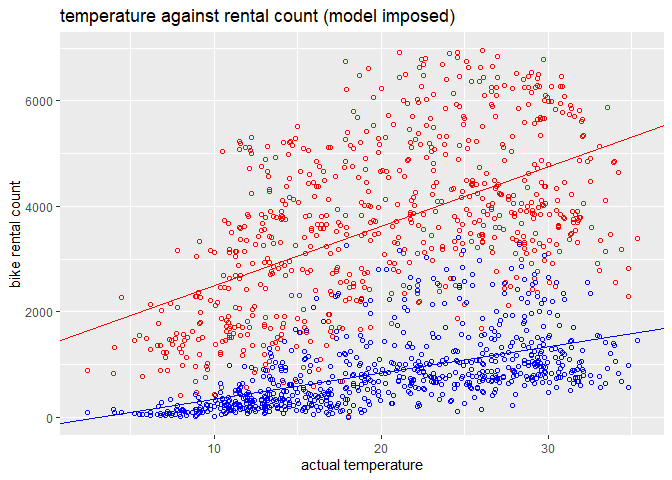
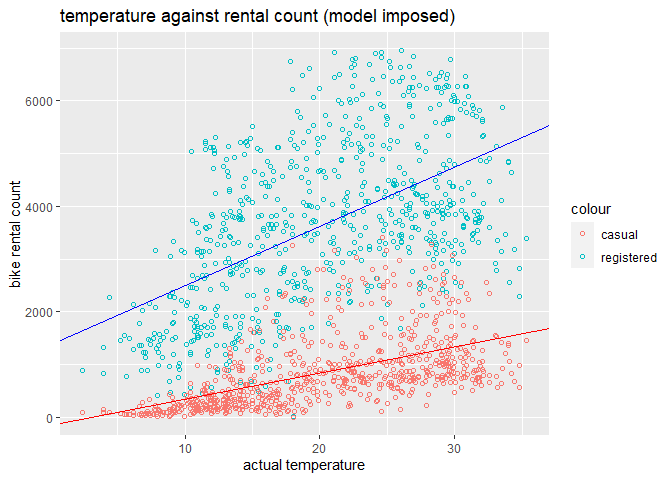
Commit 10/2

diff --git a/Bike-rentals.md b/Bike-rentals.md
@@ -113,7 +113,7 @@ summary(registered_temp.regress)
     ## F-statistic: 300.1 on 1 and 729 DF,  p-value: < 2.2e-16
 
 ``` r
-ggplot(bikedata) + geom_point(aes(actual.temp, registered), shape=1, color = 'red') + geom_point(aes(actual.temp, casual), shape = 1, color = 'blue') + geom_abline(intercept = coef(registered_temp.regress)[1], slope = coef(registered_temp.regress)[2], colour = "red") + geom_abline(intercept = coef(casual_temp.regress)[1], slope = coef(casual_temp.regress)[2], colour = "blue") + ylab('bike rental count') + xlab('actual temperature') + labs(title = 'temperature against rental count (model imposed)') 
+ggplot(bikedata, aes(x = actual.temp)) + geom_point(aes(y = registered,  color = "registered"), shape = 1) + geom_point(aes(y = casual,  color = "casual"), shape = 1) + geom_abline(intercept = coef(registered_temp.regress)[1], slope = coef(registered_temp.regress)[2], colour = "blue") +  geom_abline(intercept = coef(casual_temp.regress)[1], slope = coef(casual_temp.regress)[2], colour = "red") + ylab('bike rental count') + xlab('actual temperature') + labs(title = 'temperature against rental count (model imposed)', labels=c("registered", "casual"))
 ```
 
 ![](Bike-rentals_files/figure-gfm/unnamed-chunk-1-1.png)<!-- -->
@@ -201,7 +201,57 @@ summary(registered_feeltemp.regress)
     ## F-statistic: 306.7 on 1 and 729 DF,  p-value: < 2.2e-16
 
 ``` r
-ggplot(bikedata) + geom_point(aes(actual.atemp, registered), shape=1, color = 'red') + geom_point(aes(actual.atemp, casual), shape = 1, color = 'blue') + geom_abline(intercept = coef(registered_feeltemp.regress)[1], slope = coef(registered_feeltemp.regress)[2], colour = "red") + geom_abline(intercept = coef(casual_feeltemp.regress)[1], slope = coef(casual_feeltemp.regress)[2], colour = "blue") + ylab('bike rental count') + xlab('actual temperature') + labs(title = 'feel temperature against rental count (model imposed)') 
+ggplot(bikedata, aes(x = actual.atemp)) + geom_point(aes(y = registered,  color = "registered"), shape = 1) + geom_point(aes(y = casual,  color = "casual"), shape = 1) + geom_abline(intercept = coef(registered_feeltemp.regress)[1], slope = coef(registered_feeltemp.regress)[2], colour = "blue") +  geom_abline(intercept = coef(casual_feeltemp.regress)[1], slope = coef(casual_feeltemp.regress)[2], colour = "red") + ylab('bike rental count') + xlab('feel temperature') + labs(title = 'feel temperature against rental count (model imposed)', labels=c("registered", "casual")) 
 ```
 
 ![](Bike-rentals_files/figure-gfm/unnamed-chunk-2-1.png)<!-- -->
+
+# Correlation between variables
+
+``` r
+cor(bikedata$actual.atemp, bikedata$cnt)
+```
+
+    ## [1] 0.6310657
+
+``` r
+cor(bikedata$actual.atemp, bikedata$casual)
+```
+
+    ## [1] 0.5438637
+
+``` r
+cor(bikedata$actual.atemp, bikedata$registered)
+```
+
+    ## [1] 0.5441918
+
+``` r
+cor(bikedata$actual.temp, bikedata$cnt)
+```
+
+    ## [1] 0.627494
+
+``` r
+cor(bikedata$actual.temp, bikedata$casual)
+```
+
+    ## [1] 0.5432847
+
+``` r
+cor(bikedata$actual.temp, bikedata$registered)
+```
+
+    ## [1] 0.540012
+
+``` r
+cor(bikedata$actual.atemp, bikedata$casual)
+```
+
+    ## [1] 0.5438637
+
+``` r
+cor(bikedata$actual.atemp, bikedata$actual.temp)
+```
+
+    ## [1] 0.9917016
